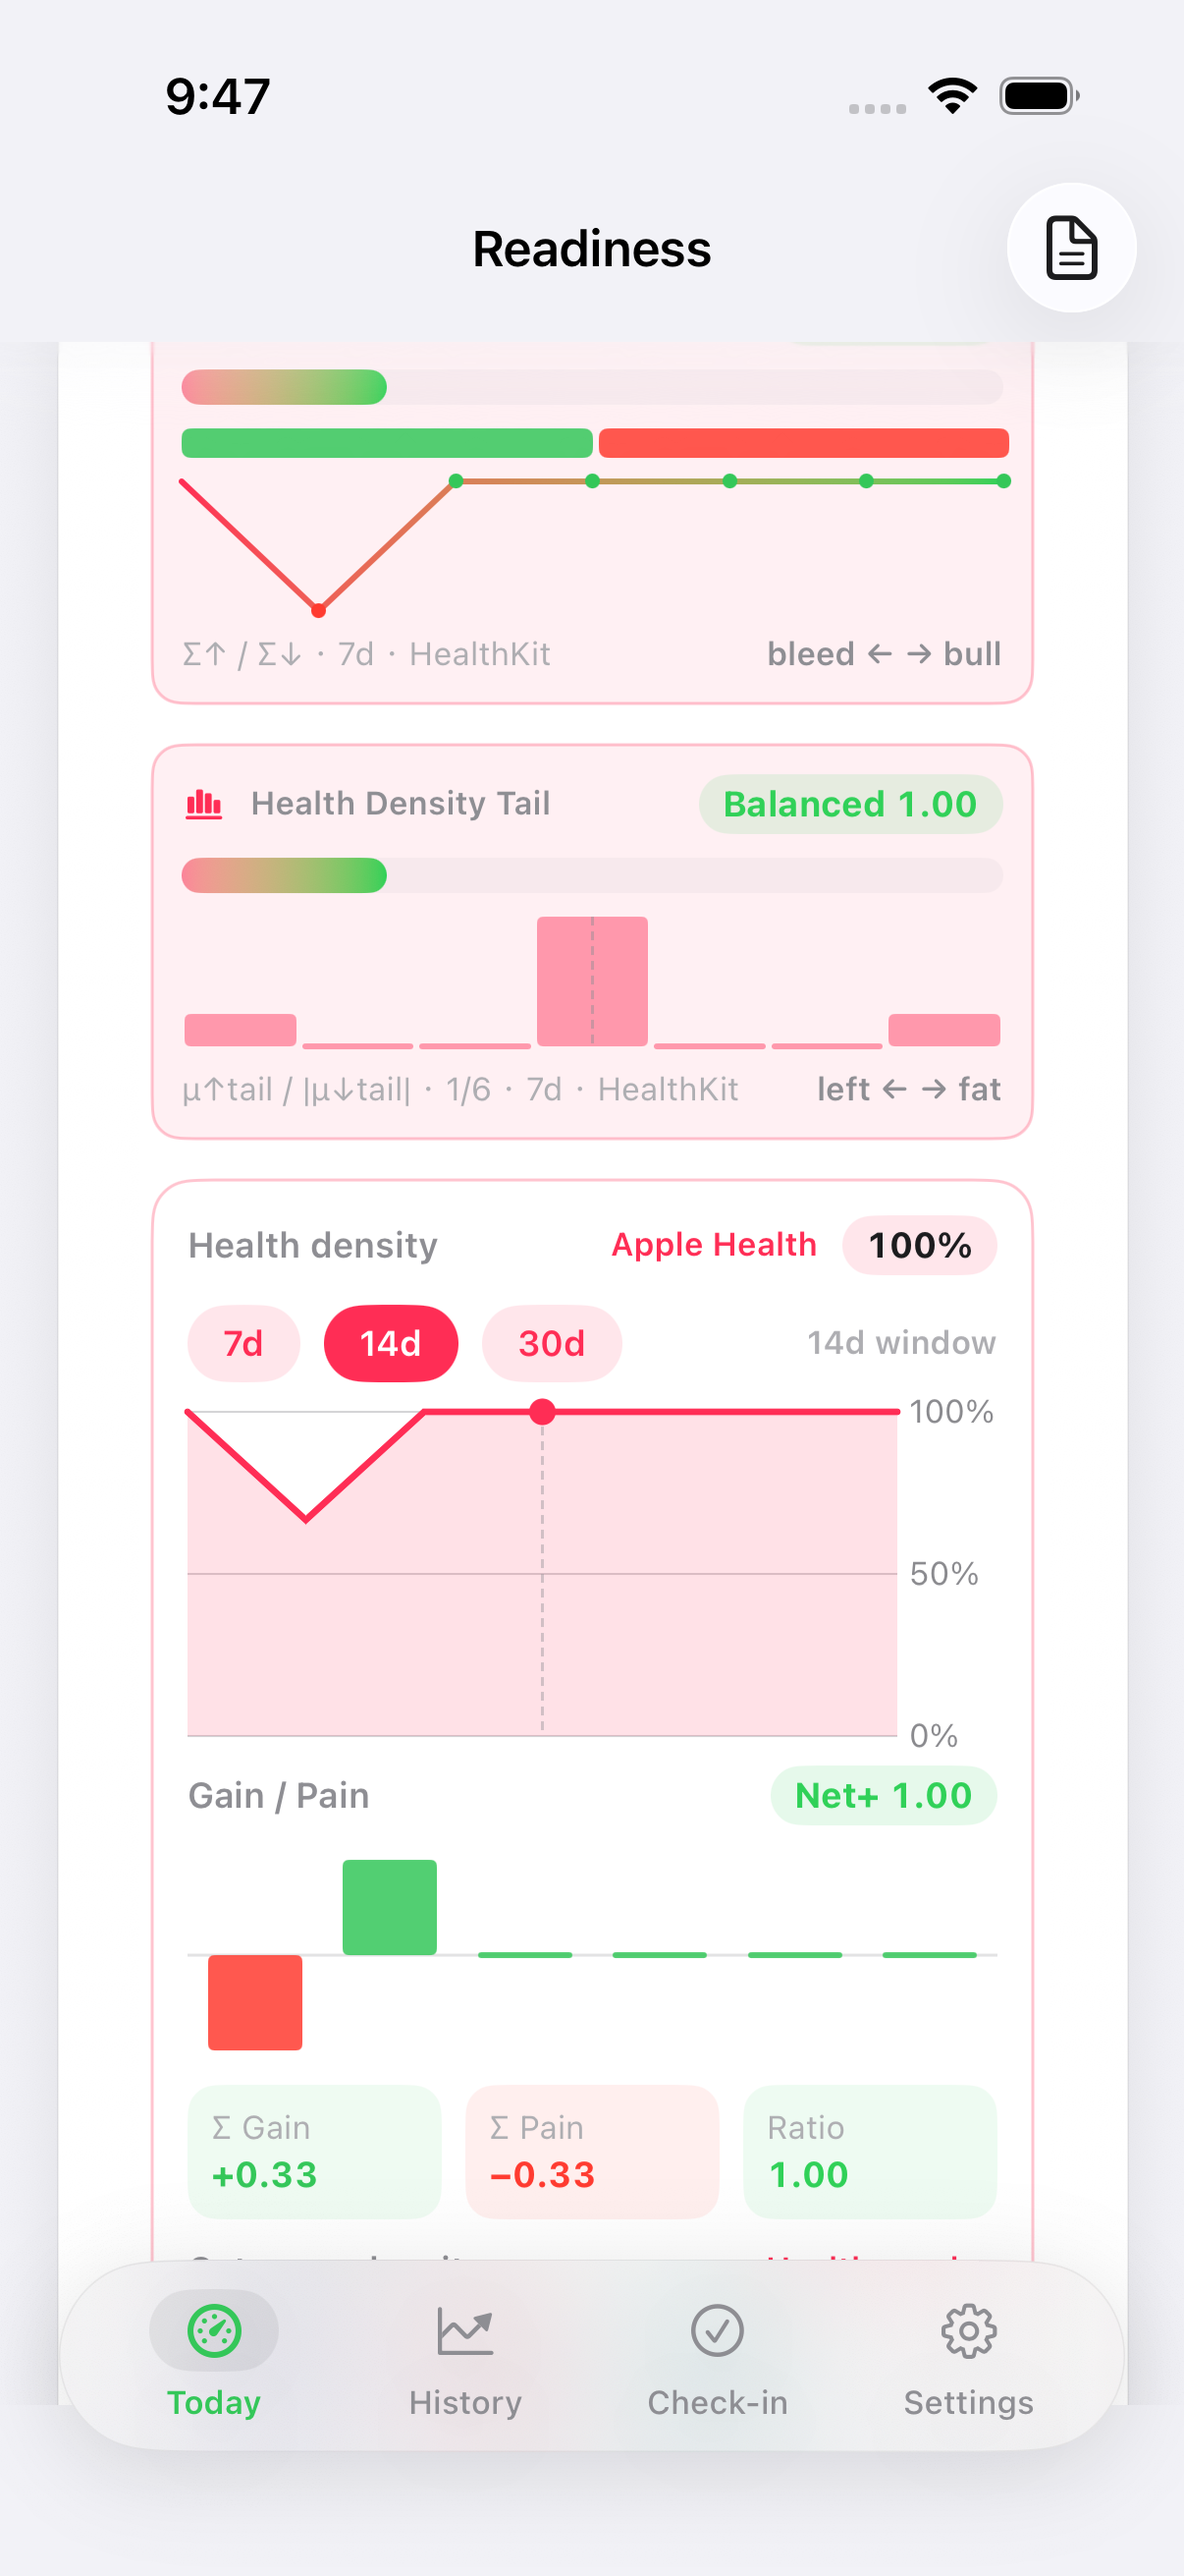
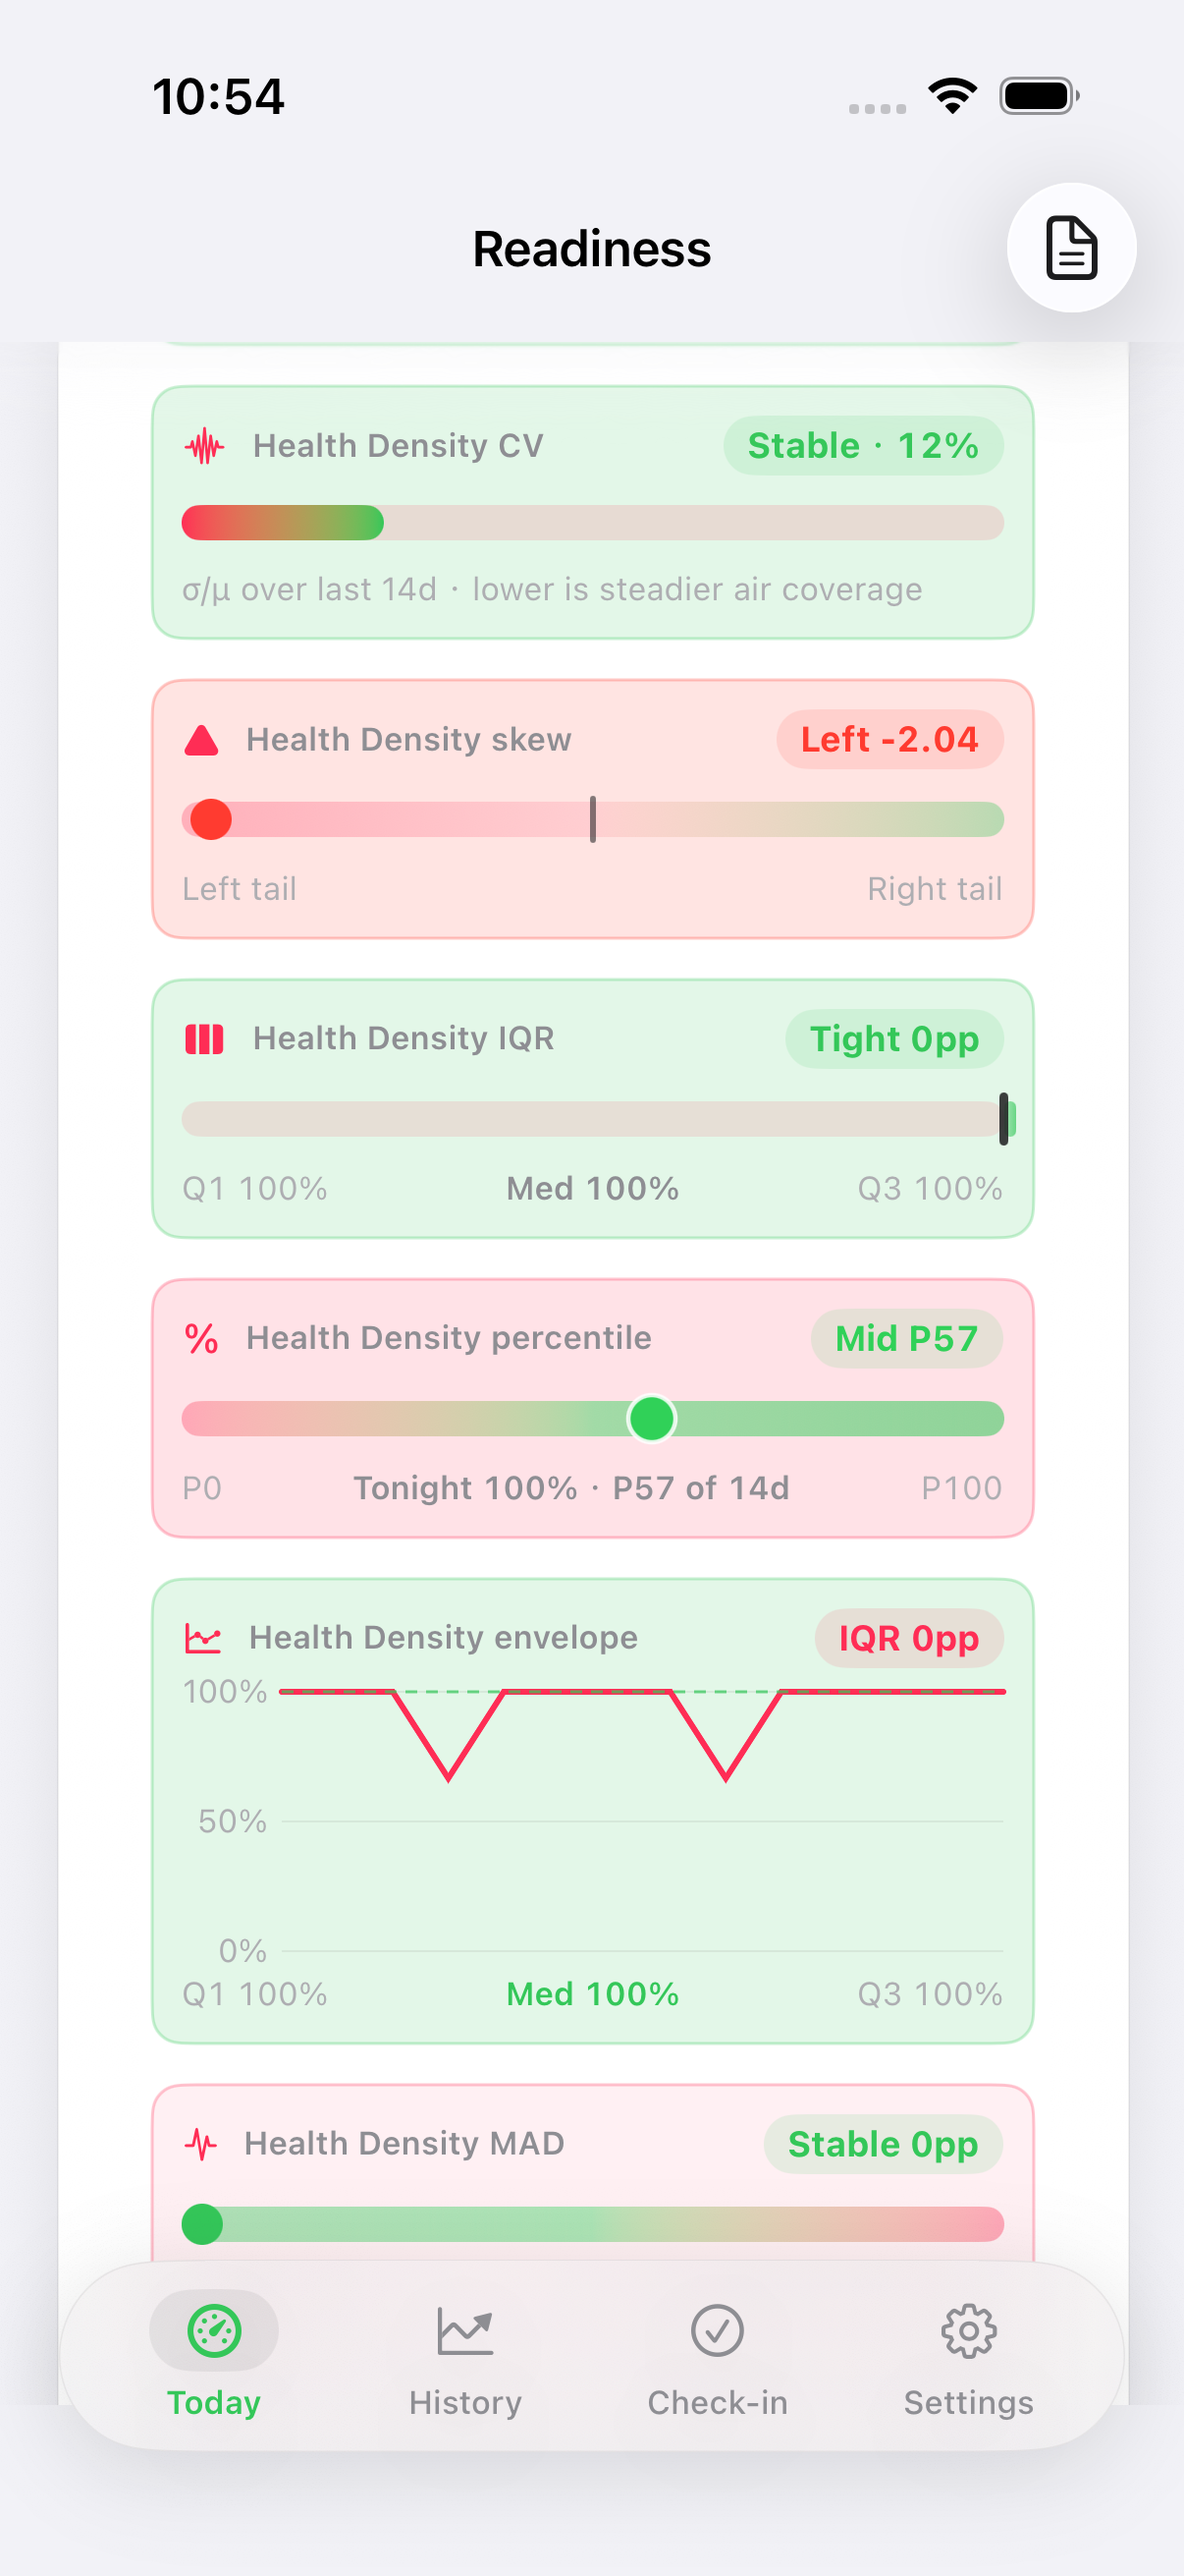
Honest #806: Density envelope meter (WHOOP wells) (#836)
Chrome-only restyle of the existing fitbit.air.density.envelope /
health.air.density.envelope container. The Chart already encodes the
envelope reading itself (Q1–Q3 AreaMark, density LineMark, dashed
median RuleMark); that chart is left intact (not flattened to a
uniform 8/14 wash). Idle (no density > 0 in the 14d window)
ghost/hairline 8/28 secondaryText; active complete (has density,
Tight, iqrPP <= 12) 14/28 optimal; active negative (Wide, iqrPP > 22)
14/28 strain; else/partial (Steady, 12 < iqrPP <= 22) 14/28 accent.
The IQR capsule keeps its existing meterColor tone. Copy,
accessibilityIdentifier, accessibilityLabel, envelope math, and
READY formula unchanged.

UITest testDensityEnvelope passed 149.246s, 0
failures (observer 187.704s) on iPhone 17 Pro.
testReadinessLoadSimulatorSurface passed 832.825s, 0 failures
(observer 839.391s) on iPhone 17 Pro. Proof:
.audit/verify-density-envelope.png

diff --git a/ReadinessTrackerUITests/SurfacesUITests.swift b/ReadinessTrackerUITests/SurfacesUITests.swift
@@ -18963,6 +18963,57 @@ func testPeakHeartRateCardMetricDetailNavSurface() throws {
         if meterExistsNow(pctHealth) { saveShot("verify-health-air-density-percentile.png") }
     }
 
+    /// Honest #806: WHOOP wells on existing density envelope chart.
+    /// Tight path to fitbit.air.density.envelope / health.air.density.envelope
+    /// on the Air card (immediately after the percentile meter). Avoids the
+    /// long testFitbitAirDataCardSurface walk that hangs on spark
+    /// swipe-down after Honest #790. Do not add extra swipes after the
+    /// meter is on-screen — a #802 follow-up that did so overscrolled
+    /// into the later stack. Never use a CONTAINS fallback (Honest
+    /// #803 run 1 was a false green: proof was Swim Strokes).
+    ///
+    /// Walk follows the landed #804/#805 tests: stay on the Today tab, use
+    /// app.swipeUp (center, clear of the tab bar), and look for the
+    /// exact SIDs only (timeout 0.1, one identifier predicate, no
+    /// CONTAINS, no title CONTAINS). Stop as soon as the envelope
+    /// well is on-screen.
+    func testDensityEnvelope() throws {
+        _ = app.staticTexts["Readiness"].waitForExistence(timeout: 8)
+        tapMainTab("Today")
+
+        let meter = app.descendants(matching: .any).matching(
+            NSPredicate(format: "identifier == %@ OR identifier == %@",
+                        "health.air.density.envelope",
+                        "fitbit.air.density.envelope")
+        ).firstMatch
+        let envFitbit = app.descendants(matching: .any)["fitbit.air.density.envelope"].firstMatch
+        let envHealth = app.descendants(matching: .any)["health.air.density.envelope"].firstMatch
+
+        var n = 0
+        while !meterVisible(meter) && n < 80 {
+            app.swipeUp()
+            n += 1
+        }
+
+        // If the SID exists but the well sits under the tab bar, a few
+        // upper-third nudges. Stop as soon as it is on-screen — no extra
+        // crop swipes.
+        var h = 0
+        while meterExistsNow(meter) && !meterVisible(meter) && h < 6 {
+            let window = app.windows.firstMatch
+            let start = window.coordinate(withNormalizedOffset: CGVector(dx: 0.5, dy: 0.28))
+            let end = window.coordinate(withNormalizedOffset: CGVector(dx: 0.5, dy: 0.12))
+            start.press(forDuration: 0.01, thenDragTo: end)
+            h += 1
+        }
+
+        XCTAssertTrue(meterVisible(meter),
+                      "fitbit.air.density.envelope / health.air.density.envelope")
+        saveShot("verify-density-envelope.png")
+        if meterExistsNow(envFitbit) { saveShot("verify-fitbit-air-density-envelope.png") }
+        if meterExistsNow(envHealth) { saveShot("verify-health-air-density-envelope.png") }
+    }
+
     private func meterExistsNow(_ el: XCUIElement) -> Bool {
         el.waitForExistence(timeout: 0.1)
     }

diff --git a/ReadinessTracker/Views/WhoopFeatures/FitbitAirDataCard.swift b/ReadinessTracker/Views/WhoopFeatures/FitbitAirDataCard.swift
@@ -2627,8 +2627,9 @@ struct FitbitAirDataCard: View {
 
 
     /// Honest #580: density envelope chart — dens spark with Q1–Q3 band (Google Health graphics).
-    @ViewBuilder
     /// Honest #668: appleWatch / HealthKit uses Health pink + health.air.density.envelope (#580 parity).
+    /// Honest #806: WHOOP wells on the existing density envelope chart container.
+    @ViewBuilder
     private var densityEnvelopeChart: some View {
         let days = Array(history.suffix(14))
         if days.count < 5 {
@@ -2666,6 +2667,24 @@ struct FitbitAirDataCard: View {
         let meterColor: Color = isHealth ? Color(hex: "FF2D55") : accent
         let meterTitle = isHealth ? "Health Density envelope" : "Density envelope"
         let meterSID = isHealth ? SurfaceID.healthAirDensityEnvelope : SurfaceID.fitbitAirDensityEnvelope
+        // Honest #806: WHOOP wells on the existing density envelope chart container.
+        // The Chart already encodes the envelope reading itself (Q1–Q3 AreaMark
+        // at meterColor.opacity(0.14), density LineMark, and dashed median
+        // RuleMark) and is left intact — not flattened to a uniform 8/14 wash.
+        // The IQR capsule keeps its existing meterColor tone. Label contrast
+        // holds (no white text on a light wash).
+        // Idle (no density > 0 in the 14d window) ghost/hairline 8/28 secondaryText;
+        // active complete (has density, Tight, iqrPP <= 12) 14/28 optimal;
+        // active negative (Wide, iqrPP > 22) 14/28 strain;
+        // else/partial (Steady, 12 < iqrPP <= 22) 14/28 accent.
+        let wellIsIdle = !pts.contains(where: { $0.dens > 0 })
+        let wellTone: Color = wellIsIdle
+            ? RTColor.secondaryText
+            : (iqrPP <= 12 ? RTColor.optimal
+               : (iqrPP > 22 ? RTColor.strain : meterColor))
+        let wellFill: Color = wellIsIdle
+            ? RTColor.secondaryText.opacity(0.08)
+            : wellTone.opacity(0.14)
         return VStack(alignment: .leading, spacing: 8) {
             HStack(spacing: 8) {
                 Image(systemName: "chart.xyaxis.line")
@@ -2733,10 +2752,10 @@ struct FitbitAirDataCard: View {
             }
         }
         .padding(10)
-        .background(meterColor.opacity(0.07), in: RoundedRectangle(cornerRadius: 10, style: .continuous))
+        .background(wellFill, in: RoundedRectangle(cornerRadius: 10, style: .continuous))
         .overlay(
             RoundedRectangle(cornerRadius: 10, style: .continuous)
-                .stroke(meterColor.opacity(0.28), lineWidth: 1)
+                .stroke(wellTone.opacity(0.28), lineWidth: 1)
         )
         .accessibilityIdentifier(meterSID)
         .accessibilityLabel("Density envelope IQR \(iqrPP) points")

diff --git a/ReadinessTracker/Design/Theme.swift b/ReadinessTracker/Design/Theme.swift
@@ -292,7 +292,7 @@ enum SurfaceID {
     static let readinessSimulatorRingParity = "sim.load.ring.parity"  // Honest #577 / #762
     static let fitbitAirDensityPercentile = "fitbit.air.density.percentile"  // Honest #578 / #805
     static let readinessSimulatorLeverPolarity = "sim.load.lever.polarity"  // Honest #579 / #763
-    static let fitbitAirDensityEnvelope = "fitbit.air.density.envelope"  // Honest #580
+    static let fitbitAirDensityEnvelope = "fitbit.air.density.envelope"  // Honest #580 / #806
     static let readinessSimulatorABReadyDelta = "sim.load.ab.ready.delta"  // Honest #581 / #727
     static let fitbitAirDensityMAD = "fitbit.air.density.mad"  // Honest #582
     static let readinessSimulatorZoneJump = "sim.load.zone.jump"  // Honest #583 / #758
@@ -361,7 +361,7 @@ enum SurfaceID {
     static let healthAirDensitySlope = "health.air.density.slope"  // Honest #665
     static let healthAirDensityTukey = "health.air.density.tukey"  // Honest #666
     static let healthAirDensityMAD = "health.air.density.mad"  // Honest #667
-    static let healthAirDensityEnvelope = "health.air.density.envelope"  // Honest #668
+    static let healthAirDensityEnvelope = "health.air.density.envelope"  // Honest #668 / #806
     static let healthAirDensityHist = "health.air.density.hist"  // Honest #669 / #801
     static let healthAirDensityCV = "health.air.density.cv"  // Honest #670 / #802
     static let healthAirDensityForecastBias = "health.air.density.forecast.bias"  // Honest #671

diff --git a/.audit/decision-log-2026-11-04.md b/.audit/decision-log-2026-11-04.md
@@ -719,3 +719,13 @@
 | 22:22 HKT | #805 density percentile meter | prove | UITest testDensityPercentile green /tmp/RT-DD805 (138.810s, 0 failures; observer 152.150s); proof /tmp/rt-audit/verify-density-percentile.png (health.air.density.percentile); starting testReadinessLoadSimulatorSurface; model=deepseek-flash | mid-ship |
 | 22:36 HKT | #805 density percentile meter | prove | UITest testReadinessLoadSimulatorSurface green /tmp/RT-DD805 (824.392s, 0 failures; observer 829.488s); model=deepseek-flash |
 | 22:37 HKT | #805 density percentile meter | land | proof PNG + receipt; SID fitbit.air.density.percentile / health.air.density.percentile; PR squash next; model=deepseek-flash |
+
+| 22:42 HKT | Honest #806 density envelope chart | model=deepseek-flash | restyle existing fitbit.air.density.envelope / health.air.density.envelope after density percentile #805; WHOOP wells on the chart container only; Q1–Q3 AreaMark (meterColor.opacity(0.14)), density LineMark, and dashed median RuleMark left intact (not flattened to a uniform 8/14 wash); idle (no density > 0 in 14d window) ghost/hairline 8/28 secondaryText; active complete (has density, Tight, iqrPP <= 12) 14/28 optimal; active negative (Wide, iqrPP > 22) 14/28 strain; else/partial (Steady, 12 < iqrPP <= 22) 14/28 accent; IQR capsule keeps existing meterColor tone; mechanical pattern-copy of #805/#804 container chrome applied locally (no separate model iterate needed) | mid-ship |
+| 22:42 HKT | Honest #806 density envelope chart | prove | starting build-for-testing /tmp/RT-DD806; model=deepseek-flash | mid-ship |
+
+| 22:51 HKT | #806 density envelope chart | prove | starting tight UITest testDensityEnvelope /tmp/RT-DD806; model=deepseek-flash | mid-ship |
+
+| 22:54 HKT | #806 density envelope chart | prove | UITest testDensityEnvelope green /tmp/RT-DD806 (149.246s, 0 failures; observer 187.704s); proof /tmp/rt-audit/verify-density-envelope.png (health.air.density.envelope); starting testReadinessLoadSimulatorSurface; model=deepseek-flash | mid-ship |
+
+| 23:09 HKT | #806 density envelope chart | prove | UITest testReadinessLoadSimulatorSurface green /tmp/RT-DD806 (832.825s, 0 failures; observer 839.391s); model=deepseek-flash |
+| 23:09 HKT | #806 density envelope chart | land | proof PNG + receipt; SID fitbit.air.density.envelope / health.air.density.envelope; PR squash next; model=deepseek-flash |

diff --git a/.audit/density-envelope.md b/.audit/density-envelope.md
@@ -1,0 +1,10 @@
+# Honest #580 / #668 / #806: Density envelope chart (WHOOP wells)
+
+Fitbit/Health air density spark with Q1–Q3 envelope of last-14 dens, immediately after the percentile meter on the Air card (below heatmap + WoW + forecast + streak + spark + hist + CV + skew + IQR + percentile; next unstyled meter body in the hist → gain/pain stack is the MAD meter).
+Chrome-only WHOOP wells on the existing Honest #580 / #668 envelope chart container.
+The Chart already encodes the envelope reading itself (Q1–Q3 AreaMark at meterColor.opacity(0.14), density LineMark, and dashed median RuleMark). That chart is left intact — not flattened to a uniform 8/14 wash.
+Idle (no density > 0 in the 14d window) = ghost/hairline 8/28 secondaryText; active complete (has density, Tight, iqrPP <= 12) = 14/28 optimal; active negative (Wide, iqrPP > 22) = 14/28 strain; else/partial (Steady, 12 < iqrPP <= 22) = 14/28 accent.
+The IQR capsule keeps its existing meterColor tone. Label contrast holds (no white text on a light wash).
+Copy, accessibilityIdentifier, accessibilityLabel, envelope math, and READY formula unchanged. No new SID.
+SurfaceID: `fitbit.air.density.envelope` / `health.air.density.envelope`
+Proof: `.audit/verify-density-envelope.png`

diff --git a/.audit/features/density-envelope.md b/.audit/features/density-envelope.md
@@ -1,0 +1,8 @@
+# Honest #580 / #668 / #806: Density envelope chart (WHOOP wells)
+
+Chrome-only WHOOP wells on the existing density envelope chart (`fitbit.air.density.envelope` / `health.air.density.envelope`).
+The Chart already encodes the envelope reading itself (Q1–Q3 AreaMark at meterColor.opacity(0.14), density LineMark, and dashed median RuleMark) and is left intact (not flattened to a uniform 8/14 wash).
+Idle (no density > 0 in the 14d window) = ghost/hairline 8/28 secondaryText; active complete (has density, Tight, iqrPP <= 12) = 14/28 optimal; active negative (Wide, iqrPP > 22) = 14/28 strain; else/partial (Steady, 12 < iqrPP <= 22) = 14/28 accent.
+The IQR capsule keeps its existing meterColor tone. Copy, accessibilityIdentifier, accessibilityLabel, envelope math, and READY formula unchanged.
+SurfaceID: `fitbit.air.density.envelope` / `health.air.density.envelope`
+Proof: UITest → `.audit/verify-density-envelope.png`

diff --git a/.audit/features/health-air-density-envelope.md b/.audit/features/health-air-density-envelope.md
@@ -1,7 +1,7 @@
-# Honest #668: Health Air density envelope
+# Honest #668 / #806: Health Air density envelope
 
-Q1–Q3 density envelope of last-14 dens (Health pink / Google Health graphics).
+Fitbit #580 / #806 parity for appleWatch / HealthKit — Health pink density envelope chart, chrome-only WHOOP wells on the existing container.
+Idle (no density > 0) ghost/hairline 8/28 secondaryText; complete (has density, Tight, iqrPP <= 12) 14/28 optimal; negative (Wide, iqrPP > 22) 14/28 strain; else/partial (Steady, 12 < iqrPP <= 22) 14/28 accent. Q1–Q3 AreaMark, density LineMark, and dashed median RuleMark left intact.
 SurfaceID: `health.air.density.envelope`
-Parity: Fitbit #580
-Proof: `.audit/verify-health-air-density-envelope.png`
-model=deepseek-flash
+Proof: `.audit/verify-density-envelope.png`
+UITest: `testDensityEnvelope`

diff --git a/.audit/features/fitbit-air-density-envelope.md b/.audit/features/fitbit-air-density-envelope.md
@@ -1,5 +1,6 @@
-# Honest #580: Fitbit Air density envelope chart
+# Honest #580 / #806: Fitbit Air density envelope chart
 
-Dens spark with Q1–Q3 band + median (Google Health graphics).
+Dens spark with Q1–Q3 band of last-14 dens (Google Health graphics). Chrome-only WHOOP wells on the existing envelope chart container.
+Idle (no density > 0) ghost/hairline 8/28 secondaryText; complete (has density, Tight, iqrPP <= 12) 14/28 optimal; negative (Wide, iqrPP > 22) 14/28 strain; else/partial (Steady, 12 < iqrPP <= 22) 14/28 accent. Q1–Q3 AreaMark, density LineMark, and dashed median RuleMark left intact.
 SurfaceID: `fitbit.air.density.envelope`
-Proof: `.audit/verify-fitbit-air-density-envelope.png`
+Proof: `.audit/verify-density-envelope.png`

diff --git a/.audit/health-air-density-envelope.md b/.audit/health-air-density-envelope.md
@@ -1,7 +1,5 @@
-# Honest #668: Health Air density envelope
+# Honest #668 / #806: Health Air density envelope
 
-Q1–Q3 density envelope of last-14 dens (Health pink / Google Health graphics).
+Fitbit #580 / #806 parity for appleWatch / HealthKit — Health pink dens envelope chart, chrome-only WHOOP wells.
 SurfaceID: `health.air.density.envelope`
-Parity: Fitbit #580
-Proof: `.audit/verify-health-air-density-envelope.png`
-model=deepseek-flash
+Proof: `.audit/verify-density-envelope.png`

diff --git a/.audit/fitbit-air-density-envelope.md b/.audit/fitbit-air-density-envelope.md
@@ -1,2 +1,5 @@
-Honest #580: Fitbit Air density envelope chart
-SurfaceID fitbit.air.density.envelope
+# Honest #580 / #806: Fitbit Air density envelope chart
+
+Dens spark with Q1–Q3 band of last-14 dens. Chrome-only WHOOP wells on the existing envelope chart container.
+SurfaceID: `fitbit.air.density.envelope`
+Proof: `.audit/verify-density-envelope.png`
